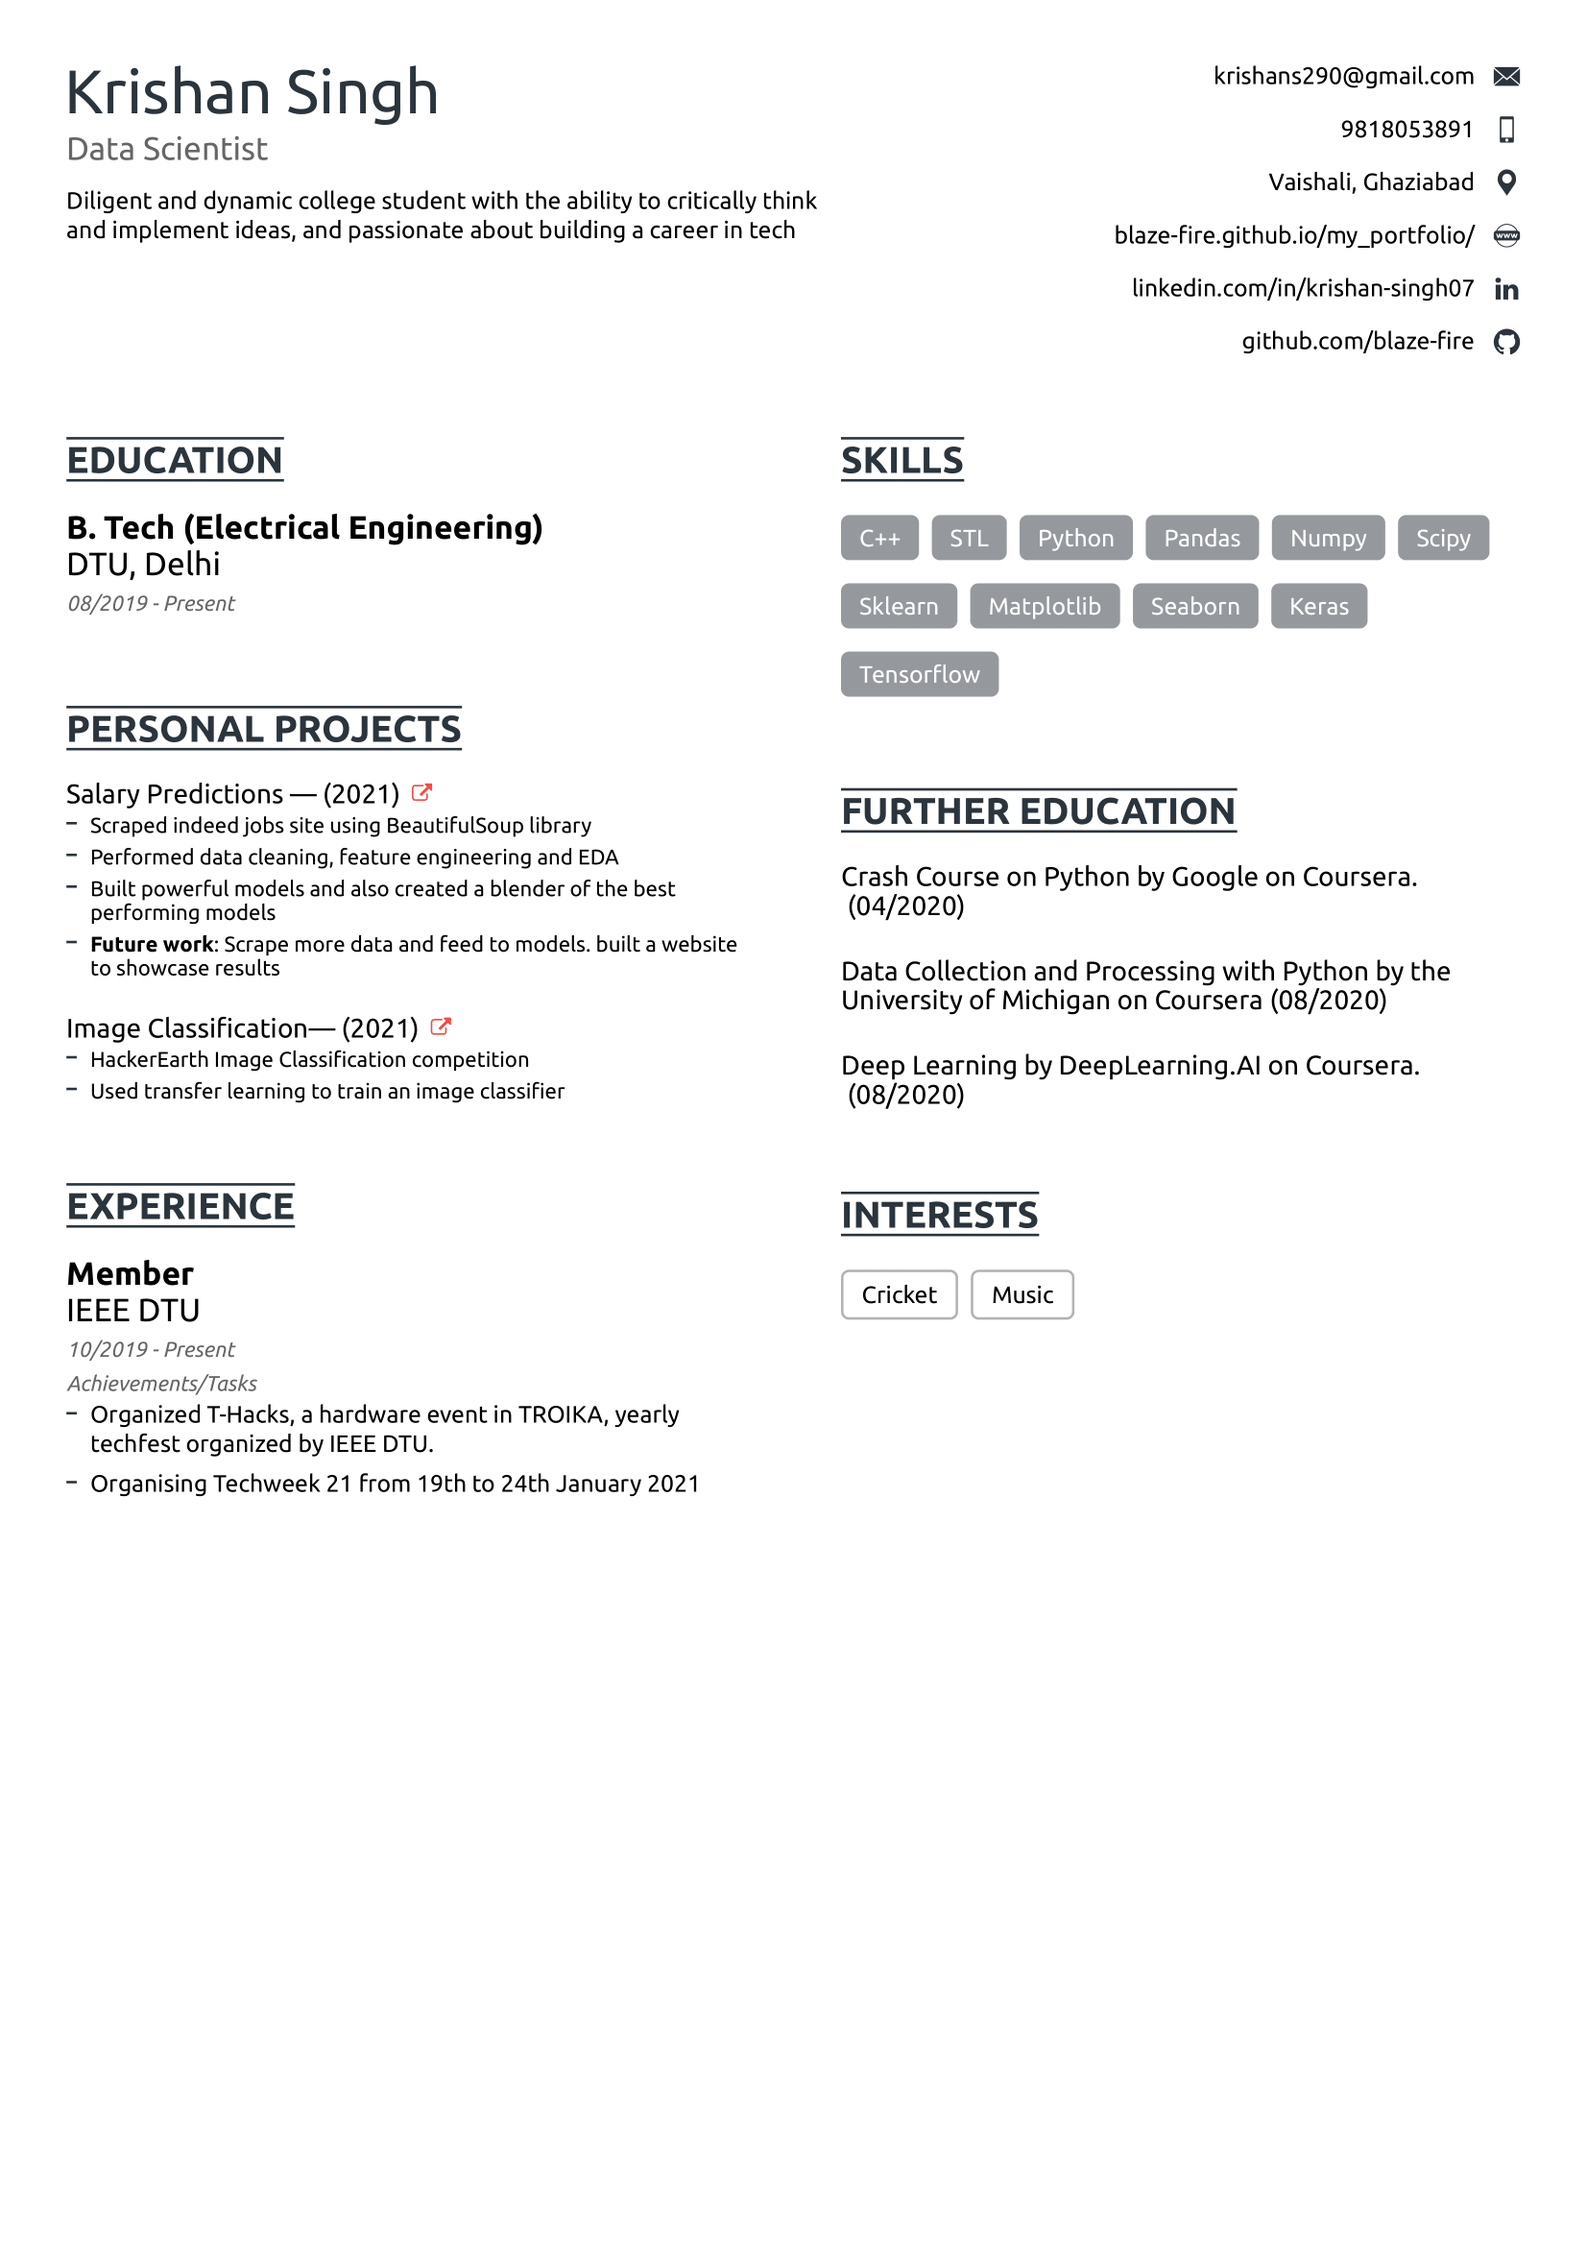
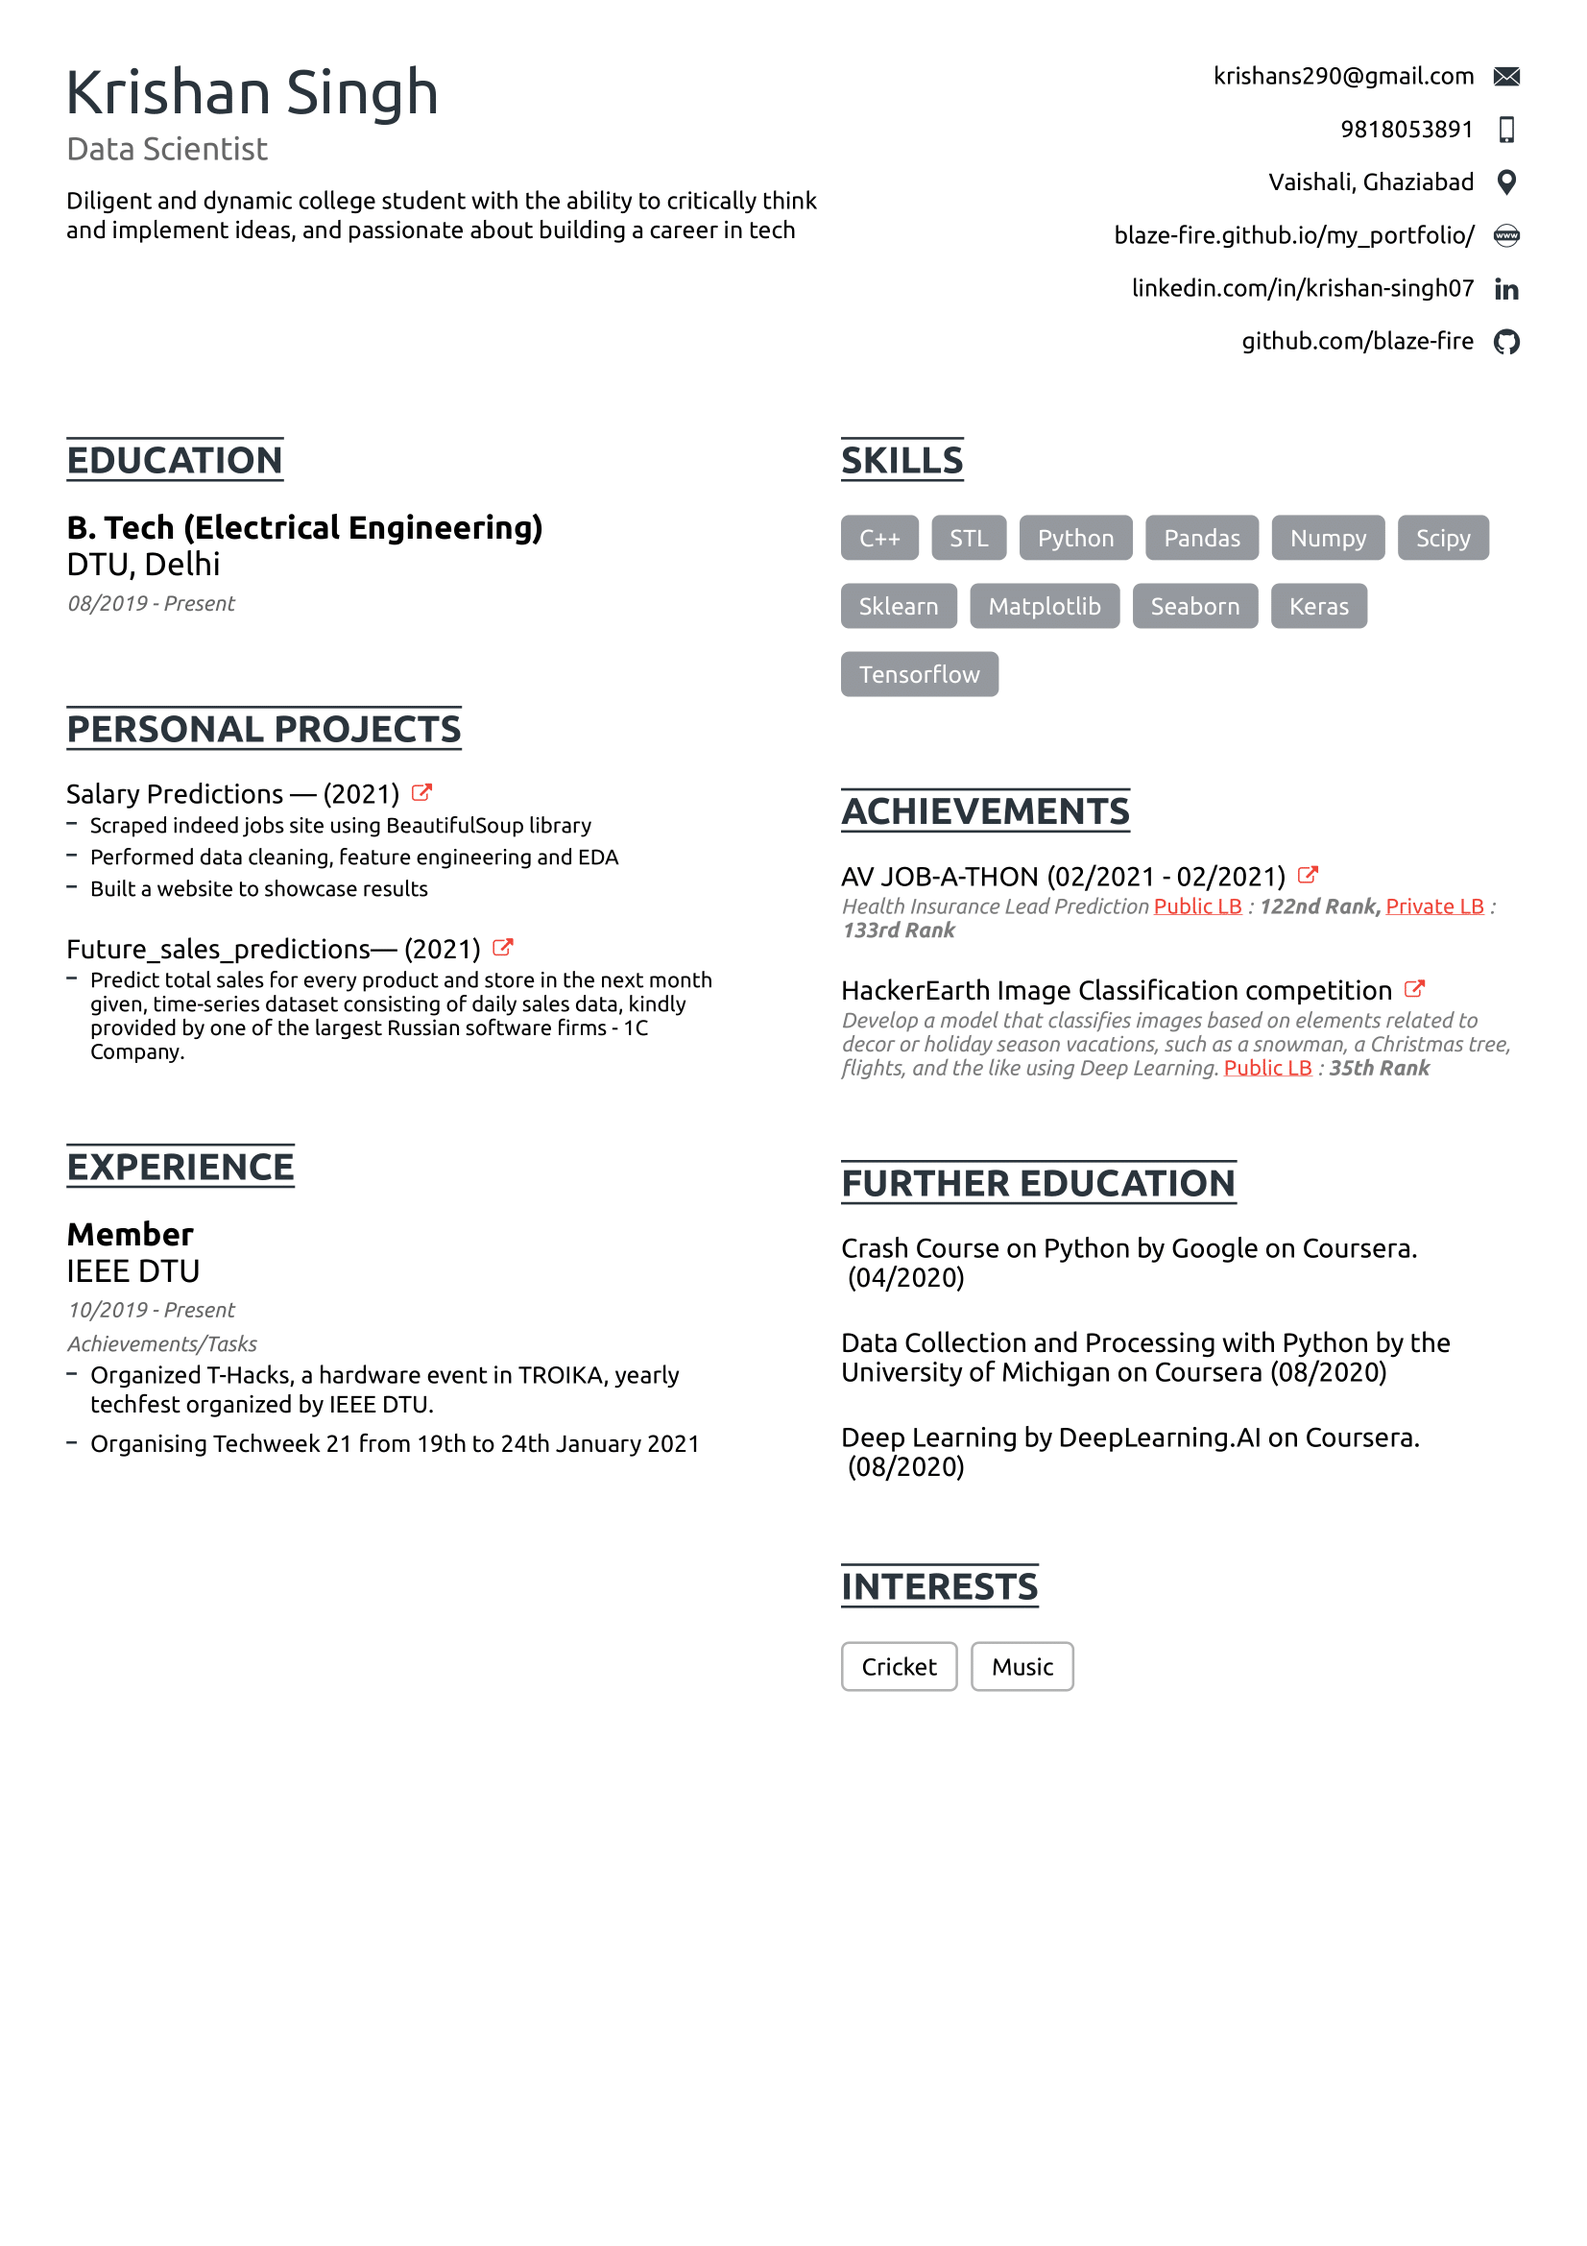
added AV thumbnail

diff --git a/portfolio/job-a-thon/index.html b/portfolio/job-a-thon/index.html
@@ -1,10 +1,10 @@
 <!DOCTYPE html>
 <html lang='en'><head>
-  <title>Salary Predictions - Krishan Singh</title>
-  <link rel='canonical' href='https://blaze-fire.github.io/my_portfolio/portfolio/sample-project/' />
+  <title>AV JOB-A-THON - Krishan Singh</title>
+  <link rel='canonical' href='https://blaze-fire.github.io/my_portfolio/portfolio/job-a-thon/' />
   <meta charset='utf-8'>
   <meta name='viewport' content='width=device-width, initial-scale=1' />
-  <meta name='description' content='Predicting salaries on the scraped data from indeed' />
+  <meta name='description' content='Health Insurance Lead Prediction' />
   <meta name='theme-color' content='#FD3519' />
   
 
@@ -19,18 +19,18 @@
 <link rel="stylesheet" href="https://blaze-fire.github.io/my_portfolio/sass/style.min.cf2eeff825d4dbc673ce0b82d270d9fc32d34973a7d5cd079e0dcf4fe3e77515.css" integrity="sha256-zy7v&#43;CXU28ZzzguC0nDZ/DLTSXOn1c0Hng3PT&#43;PndRU=" media="screen">
 <link rel="stylesheet" href="https://blaze-fire.github.io/my_portfolio/syntax.min.css" integrity="" media="screen">
 
-  <meta property="og:title" content="Salary Predictions" />
-<meta property="og:description" content="Predicting salaries on the scraped data from indeed" />
+  <meta property="og:title" content="AV JOB-A-THON" />
+<meta property="og:description" content="Health Insurance Lead Prediction" />
 <meta property="og:type" content="article" />
-<meta property="og:url" content="https://blaze-fire.github.io/my_portfolio/portfolio/sample-project/" />
-<meta property="article:published_time" content="2021-01-02T00:00:00+00:00" />
-<meta property="article:modified_time" content="2021-01-02T00:00:00+00:00" />
+<meta property="og:url" content="https://blaze-fire.github.io/my_portfolio/portfolio/job-a-thon/" />
+<meta property="article:published_time" content="2021-02-26T00:00:00+00:00" />
+<meta property="article:modified_time" content="2021-02-26T00:00:00+00:00" />
 
-  <meta itemprop="name" content="Salary Predictions">
-<meta itemprop="description" content="Predicting salaries on the scraped data from indeed">
-<meta itemprop="datePublished" content="2021-01-02T00:00:00+00:00" />
-<meta itemprop="dateModified" content="2021-01-02T00:00:00+00:00" />
-<meta itemprop="wordCount" content="110">
+  <meta itemprop="name" content="AV JOB-A-THON">
+<meta itemprop="description" content="Health Insurance Lead Prediction">
+<meta itemprop="datePublished" content="2021-02-26T00:00:00+00:00" />
+<meta itemprop="dateModified" content="2021-02-26T00:00:00+00:00" />
+<meta itemprop="wordCount" content="252">
 
 
 
@@ -139,7 +139,7 @@
 
 
 <span  class="active">
-  <a href="https://blaze-fire.github.io/my_portfolio/portfolio/sample-project/">Salary Predictions</a>
+  <a href="https://blaze-fire.github.io/my_portfolio/portfolio/job-a-thon/">AV JOB-A-THON</a>
   
 </span>
 
@@ -148,7 +148,7 @@
     
     <main id="content" class="portfolio">
 
-<h1>Salary Predictions</h1>
+<h1>AV JOB-A-THON</h1>
 <div class="tags">
   
 
@@ -164,7 +164,7 @@
   </svg>
 </div>
 
-    <a target="_blank" href="https://github.com/blaze-fire/Salary-Predictor">https://github.com/blaze-fire/Salary-Predictor</a>
+    <a target="_blank" href="https://github.com/blaze-fire/Job-A-Thon">https://github.com/blaze-fire/Job-A-Thon</a>
   </div>
 
 
@@ -182,9 +182,26 @@
 </div>
 
 
-<p><strong>Predicting salaries on the scraped data from indeed</strong></p>
-<p>Covid-19 has impacted our lives greatly but more so has impacted source of income of many, as if things were already not difficult.
-As an engineering student currently in my 2nd year, I would be sitting for my internships soon, it would be great to have an idea what skills are trending in tech industry, to boost my chances of getting good internships and eventually a good job, in this project, I predict salaries based on the skills, company names, requirements and rating of the company posted in indeed (best job searching site), for which I scraped the site using BeautifulSoup library.</p>
+<h3 id="health-insurance-lead-prediction">Health Insurance Lead Prediction</h3>
+<p>Your Client FinMan is a financial services company that provides various financial services like loan, investment funds, insurance etc. to its customers. FinMan wishes to cross-sell health insurance to the existing customers who may or may not hold insurance policies with the company. The company recommend health insurance to it&rsquo;s customers based on their profile once these customers land on the website. Customers might browse the recommended health insurance policy and consequently fill up a form to apply. When these customers fill-up the form, their Response towards the policy is considered positive and they are classified as a lead.</p>
+<p>Once these leads are acquired, the sales advisors approach them to convert and thus the company can sell proposed health insurance to these leads in a more efficient manner.</p>
+<p>Now the company needs your help in building a model to predict whether the person will be interested in their proposed Health plan/policy given the information about:</p>
+<ul>
+<li>Demographics (city, age, region etc.)</li>
+<li>Information regarding holding policies of the customer</li>
+<li>Recommended Policy Information</li>
+</ul>
+<h3 id="evaluation-metric">Evaluation Metric</h3>
+<p>Submissions are evaluated on <strong>area under the ROC curve</strong> between the predicted probability and the observed target.</p>
+<h3 id="public-and-private-split">Public and Private Split</h3>
+<p>Test data is further randomly divided into <strong>Public (40%) and Private (60%)</strong> data.
+Your initial responses will be checked and scored on the Public data.
+The final rankings would be based on your private score which will be published once the <a href="https://datahack.analyticsvidhya.com/contest/job-a-thon/">competition</a> is over.</p>
+<h1 id="leaderboard">Leaderboard</h1>
+<ul>
+<li><strong><a href="https://datahack.analyticsvidhya.com/contest/job-a-thon/#LeaderBoard">Public LB</a></strong> : <strong>122nd Rank</strong></li>
+<li><strong><a href="https://datahack.analyticsvidhya.com/contest/job-a-thon/#LeaderBoard">Private LB</a></strong> : <strong>133rd Rank</strong></li>
+</ul>
 
 
 

diff --git a/index.html b/index.html
@@ -38,7 +38,7 @@
   <div class="intro">
     <div class="logo-container">
       <a href="/my_portfolio/">
-        <img src='https://blaze-fire.github.io/my_portfolio/images/guru.jpg' alt="Profile HOME" class="rounded-logo">
+        <img src='https://blaze-fire.github.io/my_portfolio/images/guru.jpg' alt="Profile ABOUT" class="rounded-logo">
       </a>
     </div>
     <h2>Hi, I'm Krishan 👋</h2>
@@ -135,9 +135,9 @@
   
     
     <div class="portfolio-list">
-      <a href="https://blaze-fire.github.io/my_portfolio/portfolio/c-job-a-thon/">
+      <a href="https://blaze-fire.github.io/my_portfolio/portfolio/job-a-thon/">
         <div class="portfolio-container">
-          <img  title="AV JOB-A-THON" alt="AV JOB-A-THON" src="./portfolio/c-Job-a-thon/AV.png" />
+          <img  title="AV JOB-A-THON" alt="AV JOB-A-THON" src="./portfolio/Job-a-thon/analytics.png" />
           <div class="img-overlay">
           </div>
           <div class="portfolio-details">

diff --git a/404.html b/404.html
@@ -38,7 +38,7 @@
   <div class="intro">
     <div class="logo-container">
       <a href="/my_portfolio/">
-        <img src='https://blaze-fire.github.io/my_portfolio/images/guru.jpg' alt="Profile HOME" class="rounded-logo">
+        <img src='https://blaze-fire.github.io/my_portfolio/images/guru.jpg' alt="Profile ABOUT" class="rounded-logo">
       </a>
     </div>
     <h2>Hi, I'm Krishan 👋</h2>
@@ -147,9 +147,9 @@
   
     
       <div class="portfolio-list">
-  <a href="https://blaze-fire.github.io/my_portfolio/portfolio/c-job-a-thon/">
+  <a href="https://blaze-fire.github.io/my_portfolio/portfolio/job-a-thon/">
     <div class="portfolio-container">
-      <img title="AV JOB-A-THON" alt="AV JOB-A-THON" src="./c-Job-a-thon/AV.png" />
+      <img title="AV JOB-A-THON" alt="AV JOB-A-THON" src="./Job-a-thon/analytics.png" />
       <div class="img-overlay">
       </div>
       <div class="portfolio-details">

diff --git a/portfolio/index.html b/portfolio/index.html
@@ -38,7 +38,7 @@
   <div class="intro">
     <div class="logo-container">
       <a href="/my_portfolio/">
-        <img src='https://blaze-fire.github.io/my_portfolio/images/guru.jpg' alt="Profile HOME" class="rounded-logo">
+        <img src='https://blaze-fire.github.io/my_portfolio/images/guru.jpg' alt="Profile ABOUT" class="rounded-logo">
       </a>
     </div>
     <h2>Hi, I'm Krishan 👋</h2>
@@ -137,9 +137,9 @@
 
   
     <div class="portfolio-list">
-  <a href="https://blaze-fire.github.io/my_portfolio/portfolio/c-job-a-thon/">
+  <a href="https://blaze-fire.github.io/my_portfolio/portfolio/job-a-thon/">
     <div class="portfolio-container">
-      <img title="AV JOB-A-THON" alt="AV JOB-A-THON" src="./c-Job-a-thon/AV.png" />
+      <img title="AV JOB-A-THON" alt="AV JOB-A-THON" src="./Job-a-thon/analytics.png" />
       <div class="img-overlay">
       </div>
       <div class="portfolio-details">

diff --git a/about/index.html b/about/index.html
@@ -38,7 +38,7 @@
   <div class="intro">
     <div class="logo-container">
       <a href="/my_portfolio/">
-        <img src='https://blaze-fire.github.io/my_portfolio/images/guru.jpg' alt="Profile HOME" class="rounded-logo">
+        <img src='https://blaze-fire.github.io/my_portfolio/images/guru.jpg' alt="Profile ABOUT" class="rounded-logo">
       </a>
     </div>
     <h2>Hi, I'm Krishan 👋</h2>
@@ -134,7 +134,7 @@
 
   <h1 id="title"> ABOUT</h1>
   <p><p>This is my about me page. 😄</p>
-<p><a href="https://drive.google.com/file/d/1HHA-_Q_uO7PtkZuQMF1mMwK69FfXeAhQ/view">Link to my cv</a></p>
+<p><a href="https://drive.google.com/file/d/1sMF3ZuJRRahz43MeApHQFIMhaBVV4Hcu/view?usp=sharing">Link to my cv</a></p>
 <p><img src="Resume.png" alt=""></p>
 </p>
   <ul id="list">

diff --git a/post/index.html b/post/index.html
@@ -38,7 +38,7 @@
   <div class="intro">
     <div class="logo-container">
       <a href="/my_portfolio/">
-        <img src='https://blaze-fire.github.io/my_portfolio/images/guru.jpg' alt="Profile HOME" class="rounded-logo">
+        <img src='https://blaze-fire.github.io/my_portfolio/images/guru.jpg' alt="Profile ABOUT" class="rounded-logo">
       </a>
     </div>
     <h2>Hi, I'm Krishan 👋</h2>
@@ -133,8 +133,7 @@
     <main id="content" class="post">
 
   <h1 id="title"> SKILLS</h1>
-  <p>C++, Python, Sklearn, Pandas, Numpy, Scipy, Matplotlib, Seaborn, Keras,  Tensorflow</p>
-<p><strong>Familiar with</strong> : MongoDB,  Postgres</p>
+  <p>C++, Python, SQL, Sklearn, Pandas, Numpy, Scipy, Matplotlib, Seaborn, Keras,  Tensorflow, Flask</p>
 
 
   <div class="post-list">

diff --git a/designs/index.html b/designs/index.html
@@ -38,7 +38,7 @@
   <div class="intro">
     <div class="logo-container">
       <a href="/my_portfolio/">
-        <img src='https://blaze-fire.github.io/my_portfolio/images/guru.jpg' alt="Profile HOME" class="rounded-logo">
+        <img src='https://blaze-fire.github.io/my_portfolio/images/guru.jpg' alt="Profile ABOUT" class="rounded-logo">
       </a>
     </div>
     <h2>Hi, I'm Krishan 👋</h2>

diff --git a/portfolio/a-object-detection/index.html b/portfolio/a-object-detection/index.html
@@ -46,7 +46,7 @@
   <div class="intro">
     <div class="logo-container">
       <a href="/my_portfolio/">
-        <img src='https://blaze-fire.github.io/my_portfolio/images/guru.jpg' alt="Profile HOME" class="rounded-logo">
+        <img src='https://blaze-fire.github.io/my_portfolio/images/guru.jpg' alt="Profile ABOUT" class="rounded-logo">
       </a>
     </div>
     <h2>Hi, I'm Krishan 👋</h2>

diff --git a/portfolio/b-future-sales/index.html b/portfolio/b-future-sales/index.html
@@ -48,7 +48,7 @@
   <div class="intro">
     <div class="logo-container">
       <a href="/my_portfolio/">
-        <img src='https://blaze-fire.github.io/my_portfolio/images/guru.jpg' alt="Profile HOME" class="rounded-logo">
+        <img src='https://blaze-fire.github.io/my_portfolio/images/guru.jpg' alt="Profile ABOUT" class="rounded-logo">
       </a>
     </div>
     <h2>Hi, I'm Krishan 👋</h2>

diff --git a/techs/index.html b/techs/index.html
@@ -38,7 +38,7 @@
   <div class="intro">
     <div class="logo-container">
       <a href="/my_portfolio/">
-        <img src='https://blaze-fire.github.io/my_portfolio/images/guru.jpg' alt="Profile HOME" class="rounded-logo">
+        <img src='https://blaze-fire.github.io/my_portfolio/images/guru.jpg' alt="Profile ABOUT" class="rounded-logo">
       </a>
     </div>
     <h2>Hi, I'm Krishan 👋</h2>
